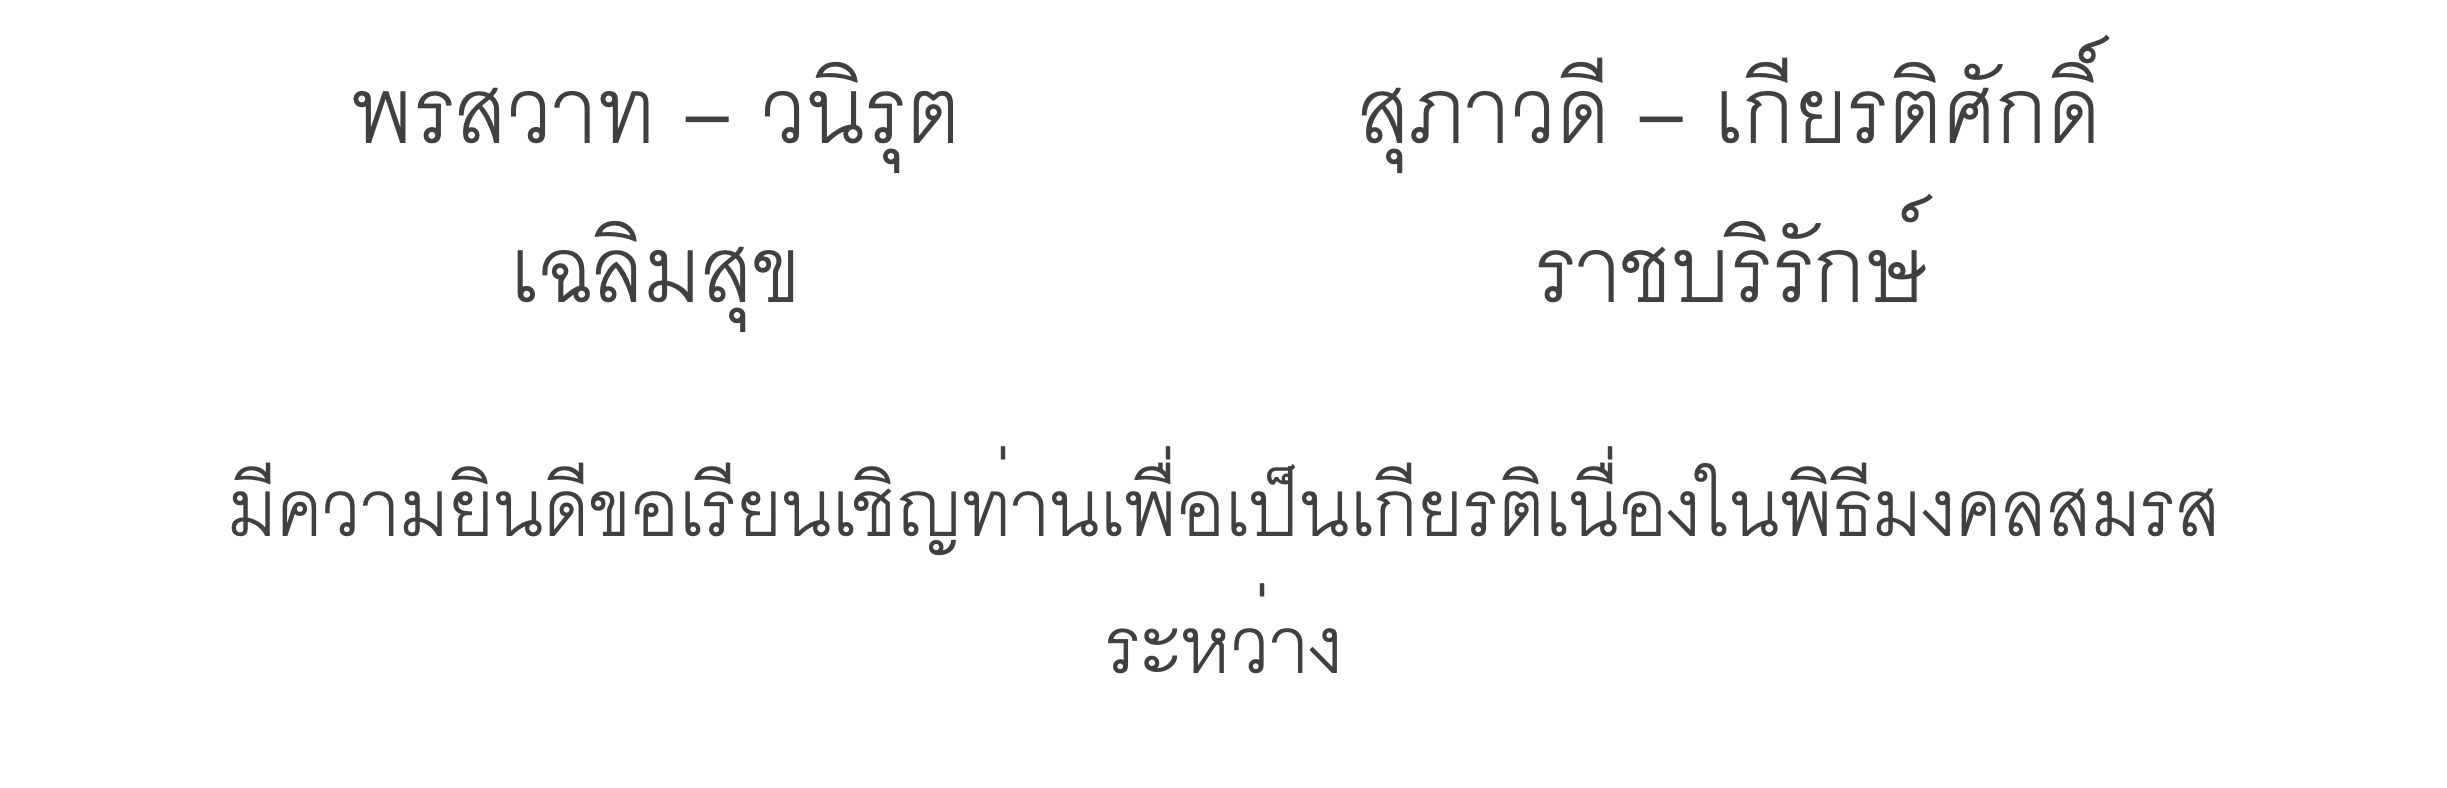
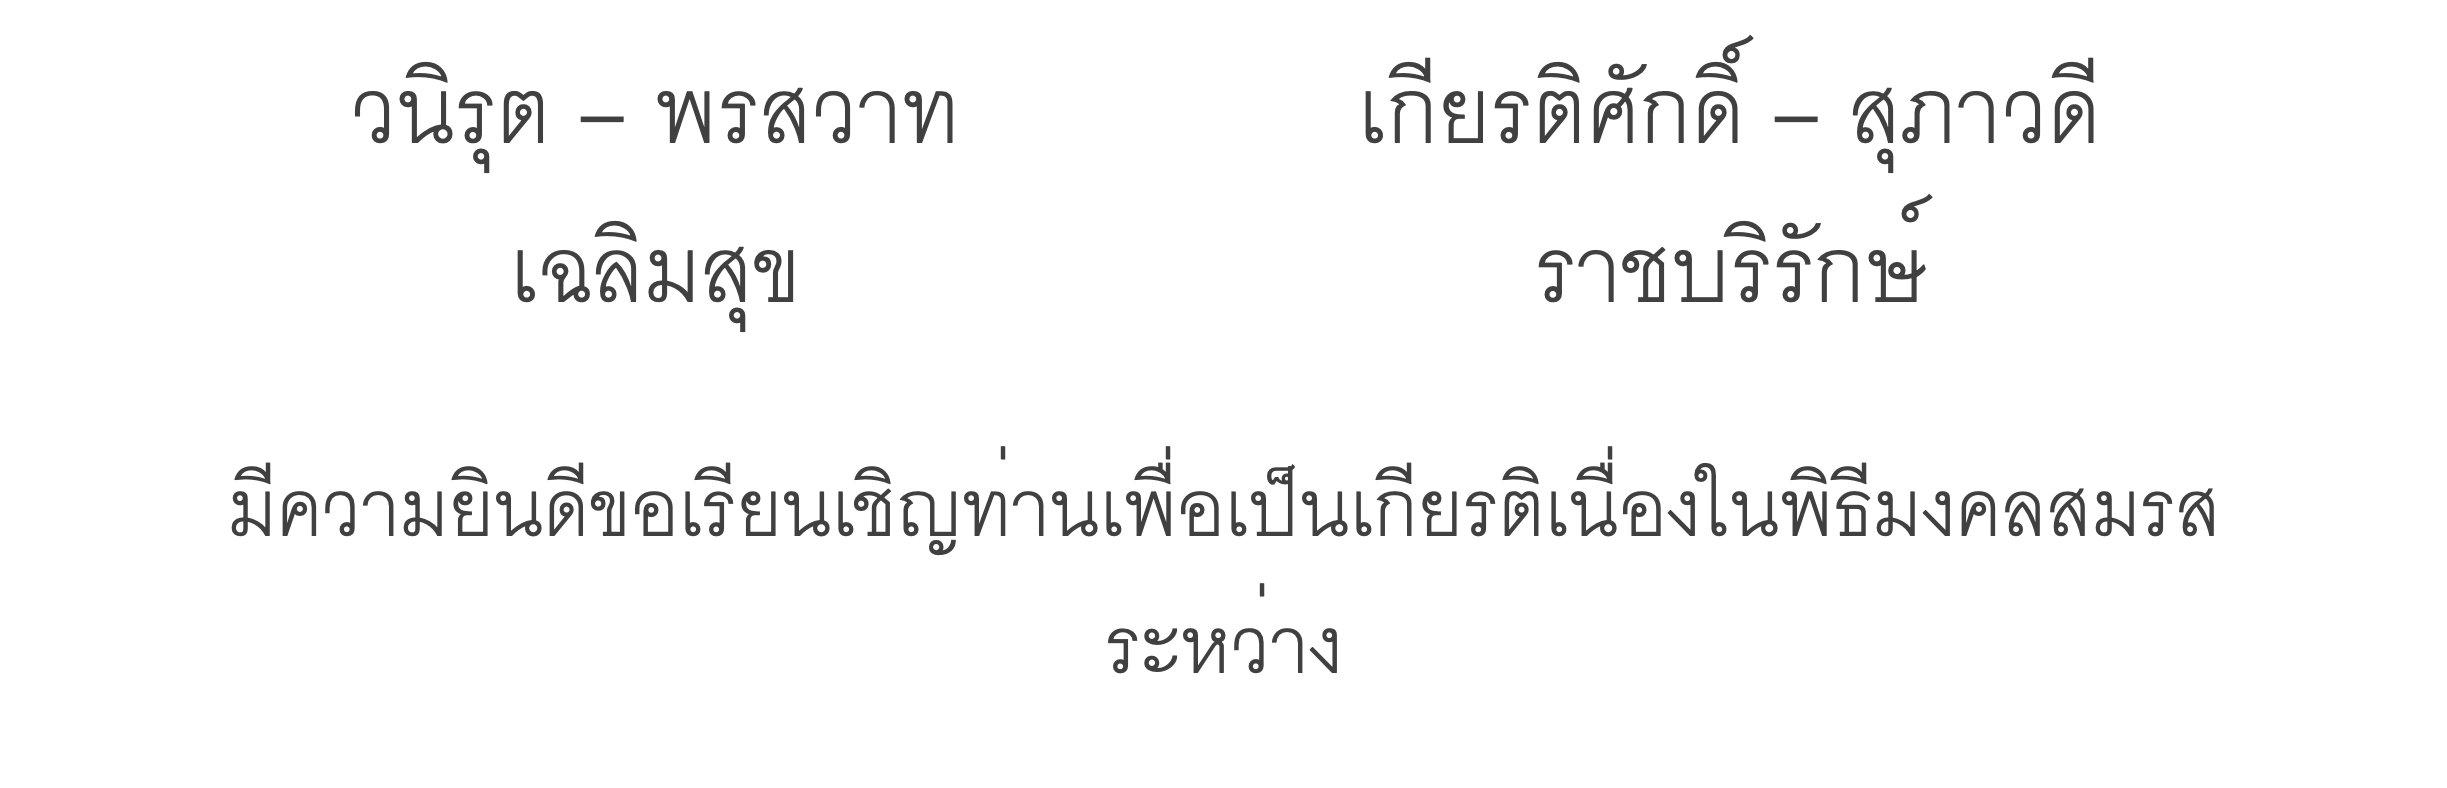
fad mom name ordering

Changed region(s): [[0.5591, 0.0609, 0.8386, 0.2132], [0.1242, 0.0609, 0.4038, 0.2132], [0.8386, 0.0609, 0.8696, 0.0914]]

diff --git a/README.md b/README.md
@@ -50,9 +50,10 @@ event description changes.
 
 ## Update the deployed website
 
-The live site is served by GitHub Pages from the `main` branch (repository **Settings → Pages**,
-source `Deploy from a branch`, branch `main`, folder `/ (root)`), at the custom domain in `CNAME`:
-<https://www.seeu14nov26.site>.
+The live site is served by GitHub Pages, built and deployed by the
+[`.github/workflows/deploy-pages.yml`](./.github/workflows/deploy-pages.yml) GitHub Actions
+workflow on every push to `main` (repository **Settings → Pages**, source `GitHub Actions`), at
+the custom domain in `CNAME`: <https://www.seeu14nov26.site>.
 
 To publish a change:
 
@@ -62,8 +63,7 @@ git commit -m "..."
 git push origin main
 ```
 
-GitHub Pages rebuilds automatically a minute or two after the push lands on `main` — no separate
-deploy step or build process. Check progress under the repo's **Actions** tab (`pages build and
-deployment`) or **Settings → Pages**.
+The workflow runs automatically a minute or two after the push lands on `main` — no separate
+deploy step or build process. Check progress under the repo's **Actions** tab (`Deploy Pages`).
 
 `morning.html` redirects to the root morning page so there is only one source file to maintain.
